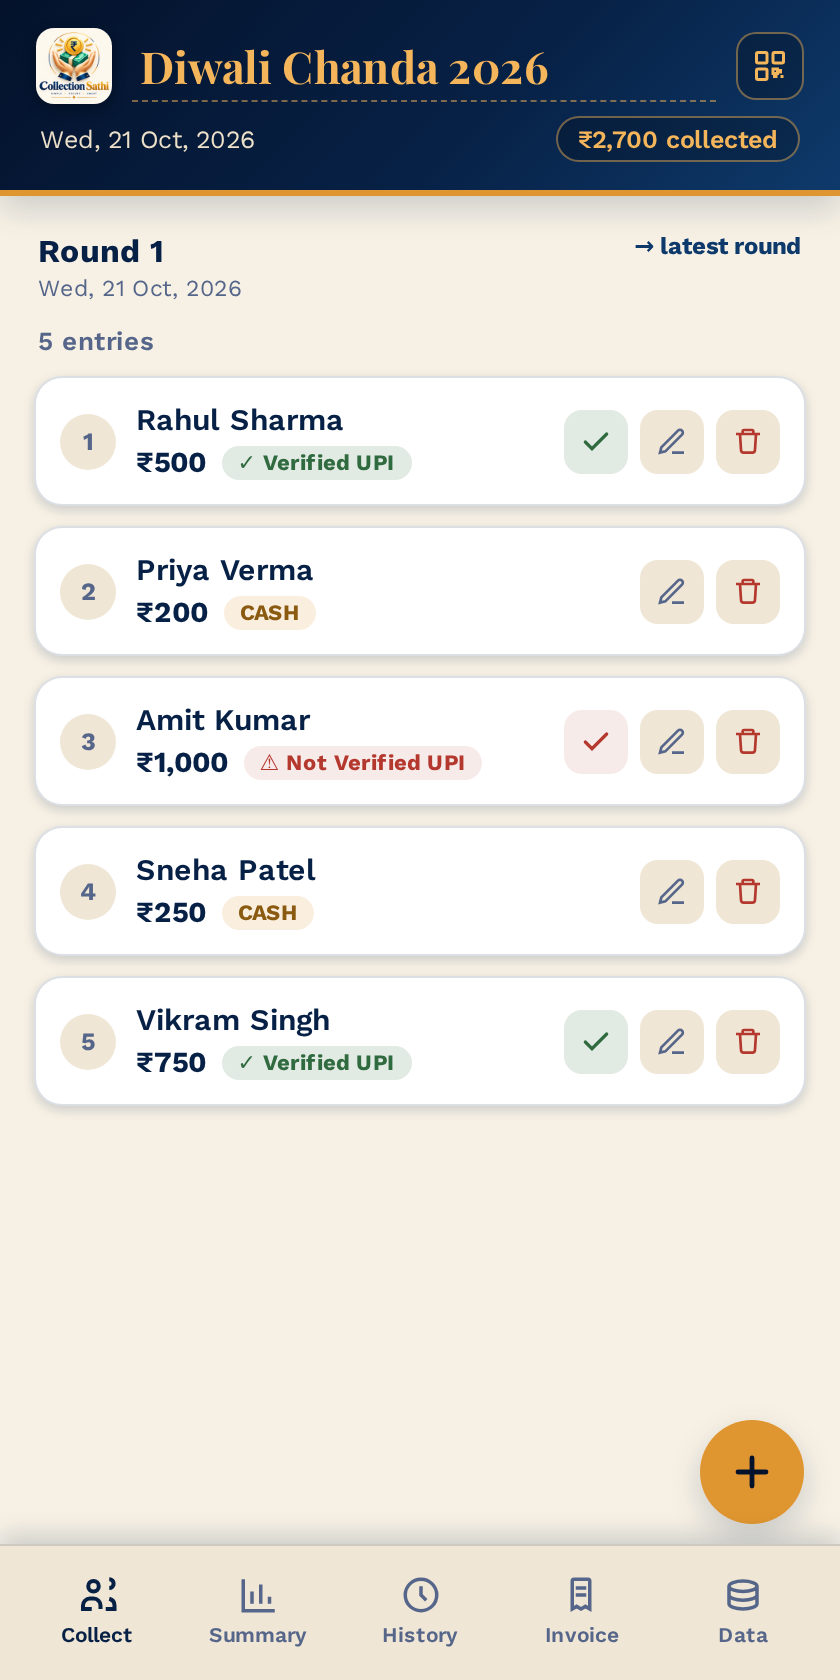
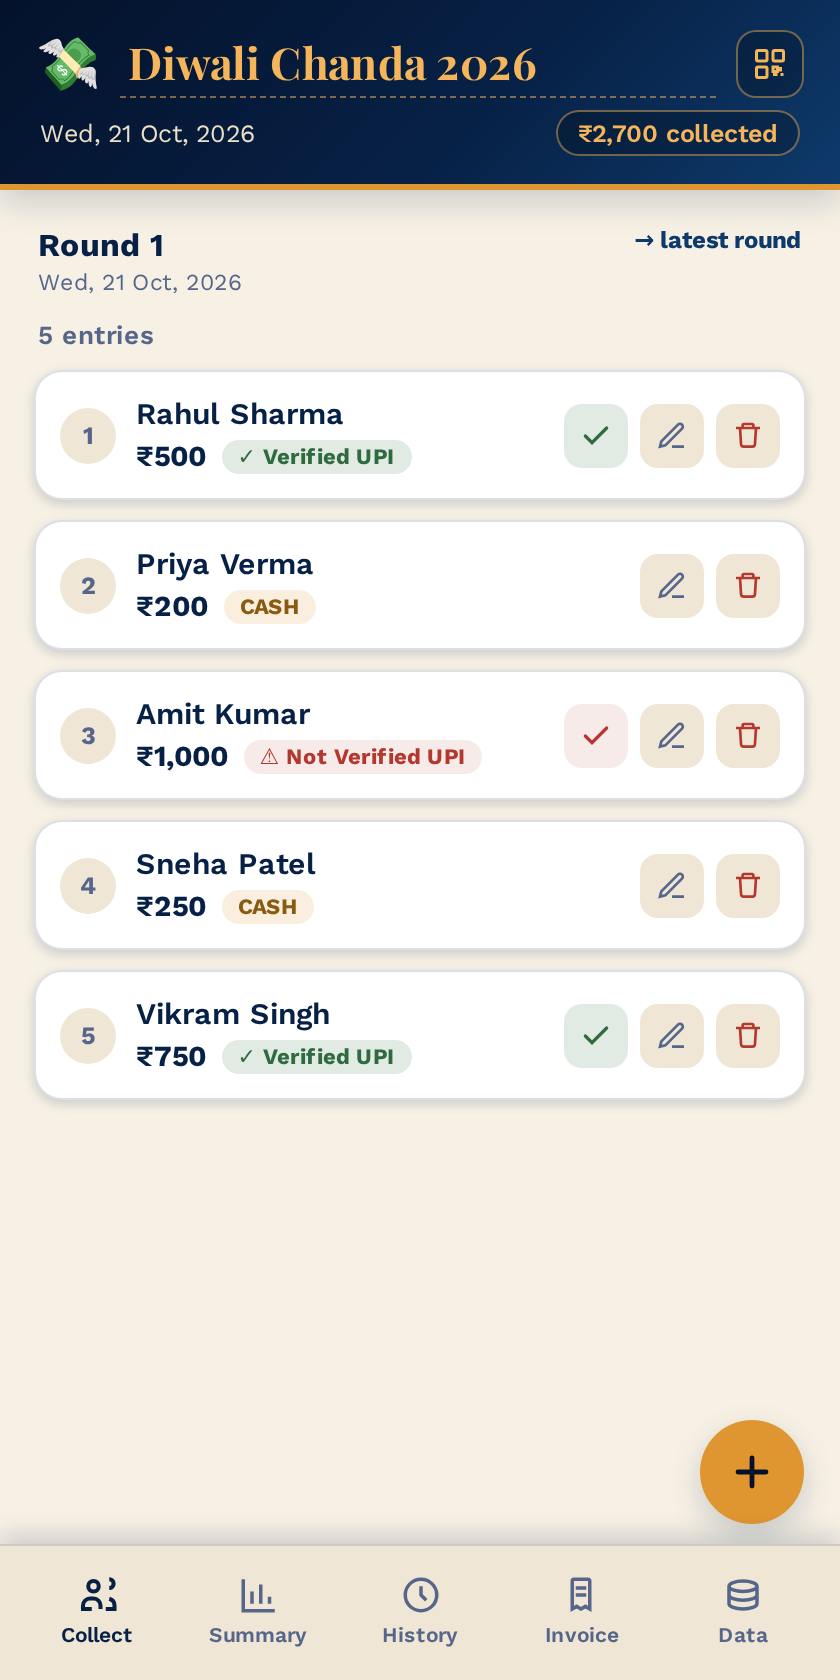
Refresh README screenshots with the restored emoji and a 3x3 grid
Re-shot every screen at 420x840 (DPR 2) so the emoji render as real
glyphs, added UPI QR code and Empty round captures, and filled the
README table out to three rows of three.

Changed region(s): [[0.0, 0.0, 1.0, 0.681]]

diff --git a/README.md b/README.md
@@ -166,18 +166,19 @@ Written with a UTF‑8 BOM so ₹ and Devanagari names display correctly, and it
 
 <table>
 <tr>
-<td align="center"><img src="screenshots/screen1.png" width="220"><br><sub>Home Screen</sub></td>
-<td align="center"><img src="screenshots/screen2.png" width="220"><br><sub>Add Person</sub></td>
-<td align="center"><img src="screenshots/screen3.png" width="220"><br><sub>UPI Verification</sub></td>
+<td align="center"><img src="screenshots/screen1.png" width="220"><br><sub>Collect</sub></td>
+<td align="center"><img src="screenshots/screen2.png" width="220"><br><sub>Add person</sub></td>
+<td align="center"><img src="screenshots/screen3.png" width="220"><br><sub>UPI verification</sub></td>
 </tr>
 <tr>
 <td align="center"><img src="screenshots/screen4.png" width="220"><br><sub>Summary</sub></td>
 <td align="center"><img src="screenshots/screen5.png" width="220"><br><sub>History</sub></td>
+<td align="center"><img src="screenshots/screen6.png" width="220"><br><sub>Invoice</sub></td>
 </tr>
 <tr>
-<td align="center"><img src="screenshots/screen6.png" width="220"><br><sub>Invoice</sub></td>
 <td align="center"><img src="screenshots/screen7.png" width="220"><br><sub>Report, export &amp; import</sub></td>
-<td></td>
+<td align="center"><img src="screenshots/screen8.png" width="220"><br><sub>UPI QR code</sub></td>
+<td align="center"><img src="screenshots/screen9.png" width="220"><br><sub>Empty round</sub></td>
 </tr>
 </table>
 
